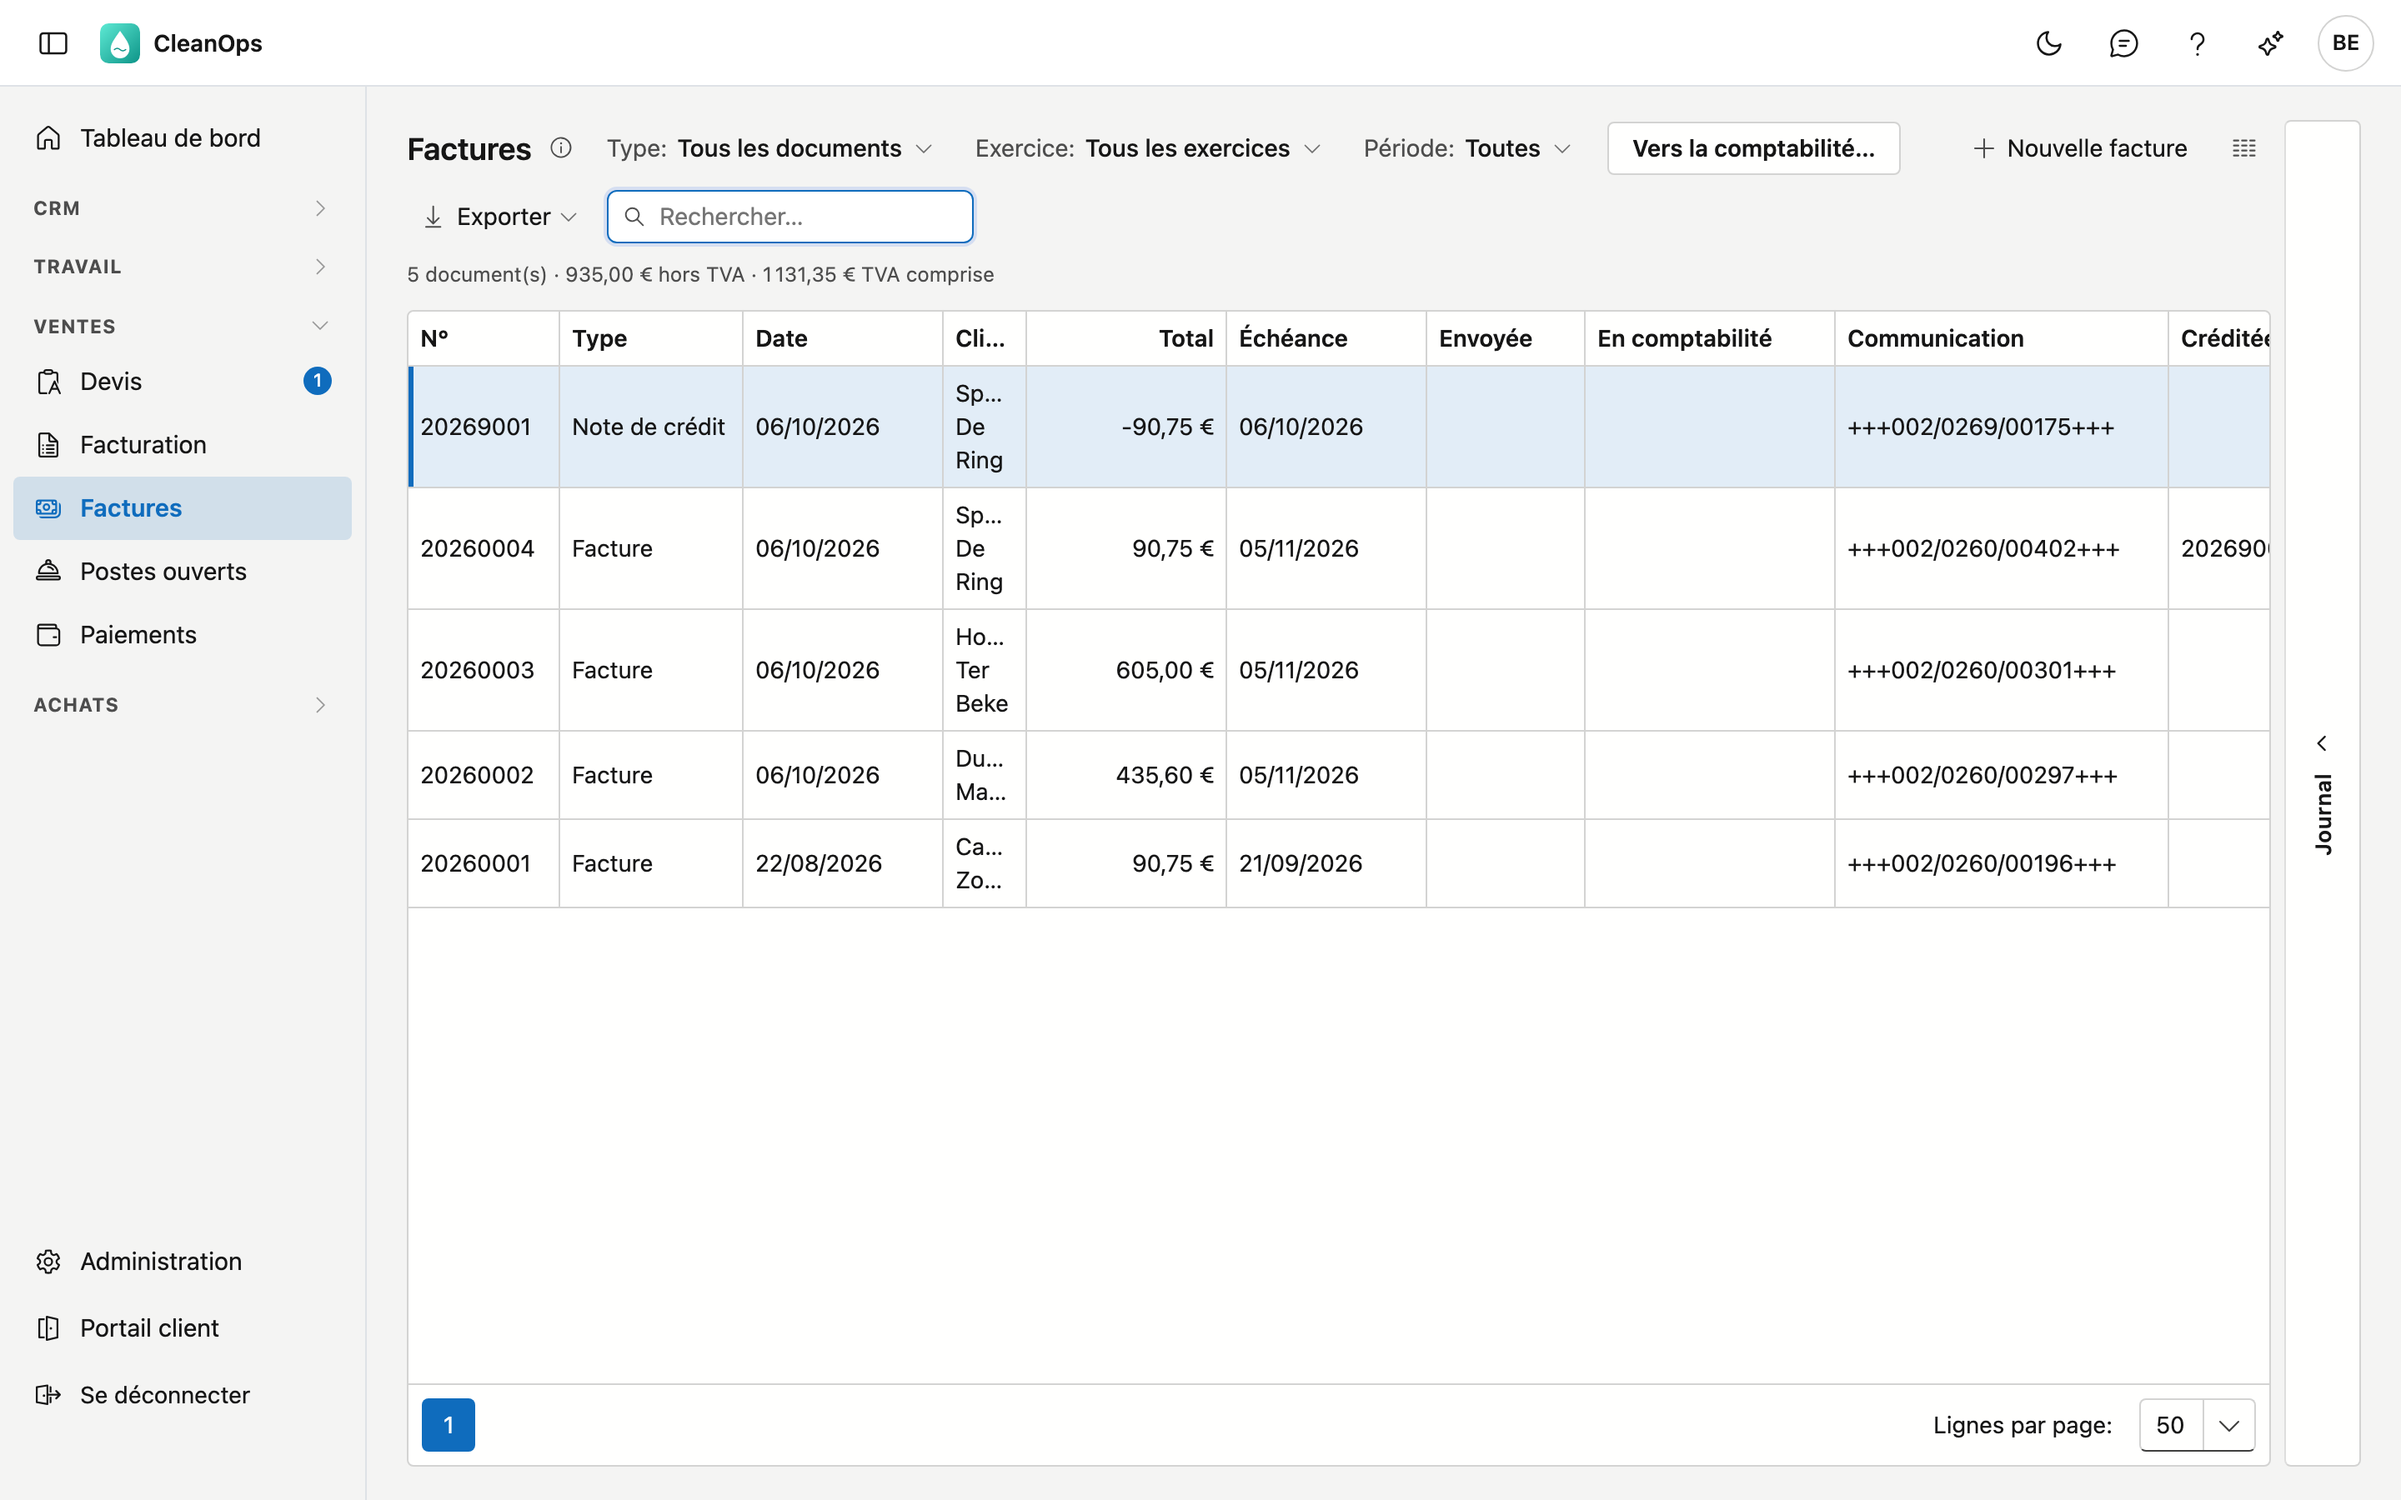
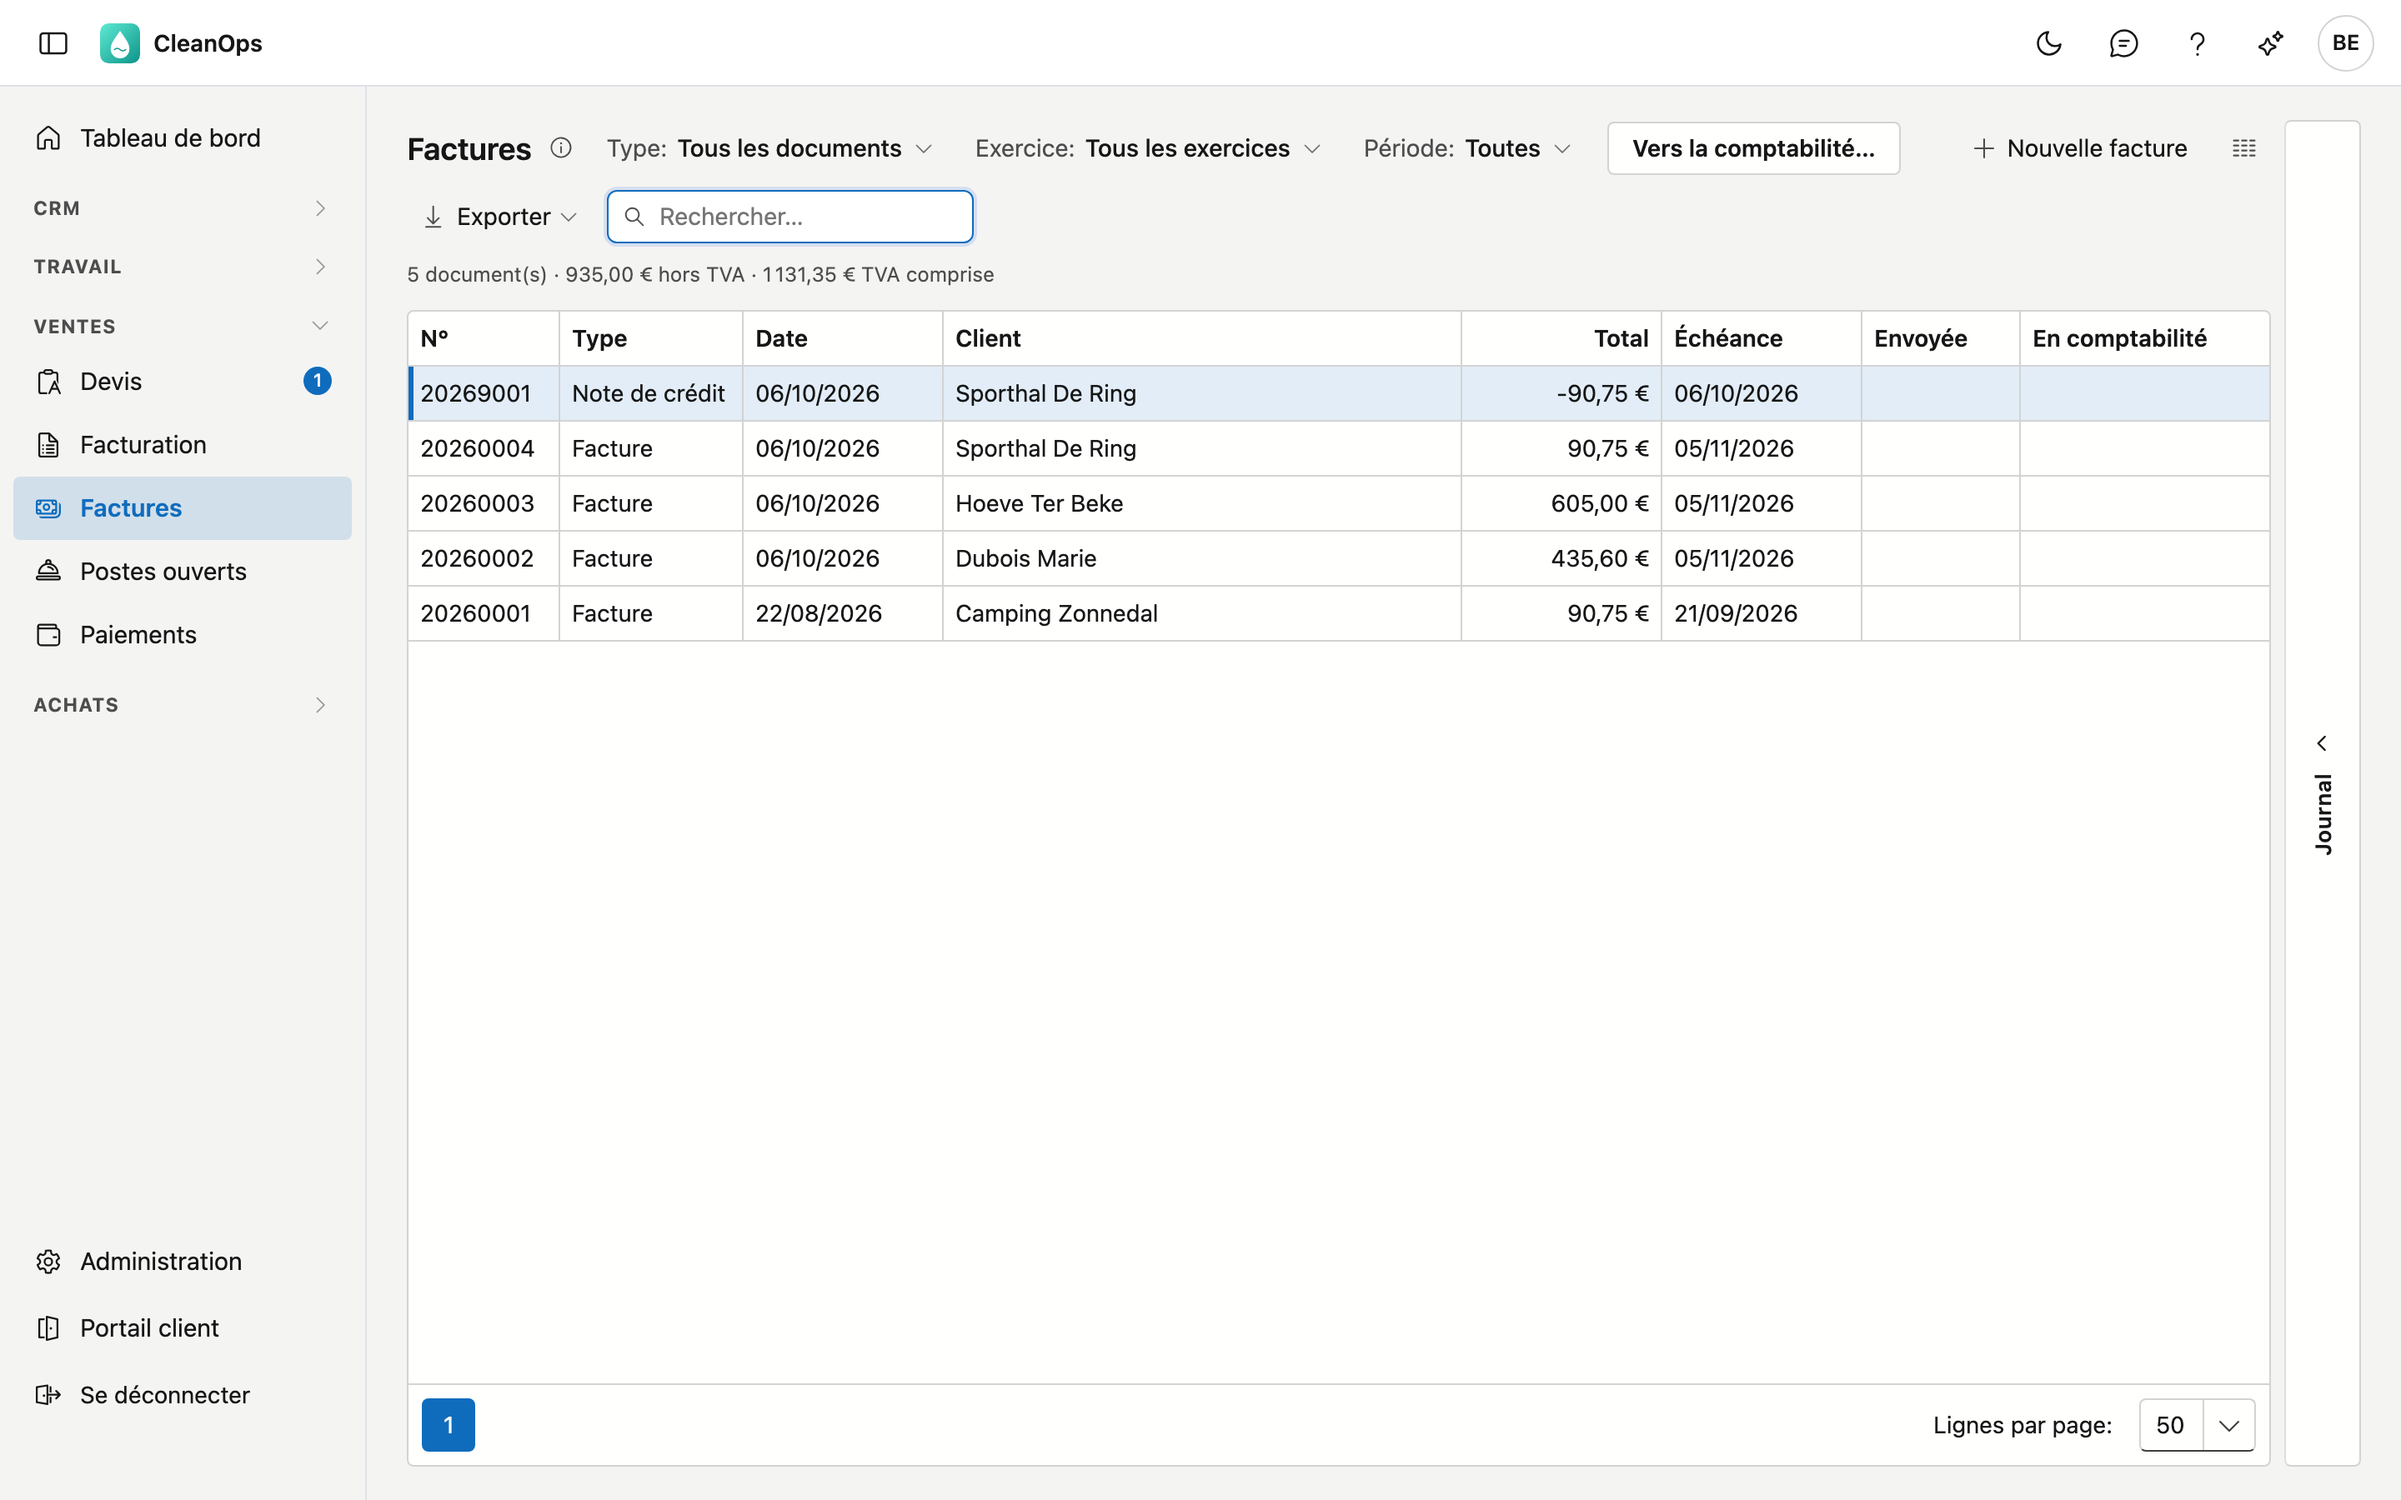
Facturen: Mededeling en Gecrediteerd door standaard verborgen (NL/FR), beelden opnieuw op 1440 px

diff --git a/docs/facturen.fr.md b/docs/facturen.fr.md
@@ -5,7 +5,7 @@ vous avez comptabilisées dans CleanOps. Ici, vous établissez une facture avec 
 modifiez une facture qui n'a pas encore été envoyée et vous la créditez. Les ordres de travail se facturent dans
 [Facturation](facturatie.fr.md).
 
-![La liste Factures de la démo avec des factures et une note de crédit, les filtres Type et Exercice, le bouton Nouvelle facture, le bouton Vers la comptabilité et les colonnes En comptabilité et Créditée par](images/facturen-lijst-fr.png "Factures")
+![La liste Factures de la démo avec des factures et une note de crédit, les filtres Type et Exercice, le bouton Nouvelle facture, le bouton Vers la comptabilité et les colonnes Envoyée et En comptabilité](images/facturen-lijst-fr.png "Factures")
 
 ## Ouvrir l'écran
 
@@ -24,6 +24,9 @@ seul l'administrateur l'a.
 | En comptabilité | *oui* si le document est déjà parti chez votre bureau comptable. |
 | Communication | La communication structurée. |
 | Créditée par | Le numéro de la note de crédit qui crédite cette facture. |
+
+Communication et Créditée par sont masquées par défaut, pour que la liste tienne aussi sur un écran plus petit : le sélecteur
+de colonnes les affiche.
 
 En haut, choisissez un **Type**, un **Exercice** ou une **Période**, ou cherchez par numéro, client ou communication.
 Sélectionnez un document et ouvrez à droite le volet **Journal** pour ses pièces jointes et son historique. Double-cliquez pour

diff --git a/docs/facturen.md b/docs/facturen.md
@@ -4,7 +4,7 @@ Facturen toont al uw verkoopdocumenten: de facturen en creditnota's uit uw vorig
 maakt u een factuur met vrije lijnen, drukt u een factuur af, wijzigt u een factuur die nog niet verstuurd is en crediteert u ze.
 Werkorders factureert u in [Facturatie](facturatie.md).
 
-![De lijst Facturen van de demo met facturen en een creditnota, de filters Type en Boekjaar, de knop Nieuwe factuur, de knop Naar de boekhouding en de kolommen In boekhouding en Gecrediteerd door](images/facturen-lijst.png "Facturen")
+![De lijst Facturen van de demo met facturen en een creditnota, de filters Type en Boekjaar, de knop Nieuwe factuur, de knop Naar de boekhouding en de kolommen Verstuurd en In boekhouding](images/facturen-lijst.png "Facturen")
 
 ## Het scherm openen
 
@@ -22,6 +22,9 @@ wijzigen en crediteren vraagt daarnaast het recht *Facturen opmaken*; dat heeft 
 | In boekhouding | *ja* als het document al naar uw boekhoudkantoor ging. |
 | Mededeling | De gestructureerde mededeling. |
 | Gecrediteerd door | Het nummer van de creditnota die deze factuur crediteert. |
+
+Mededeling en Gecrediteerd door staan standaard verborgen, zodat de lijst ook op een kleiner scherm past: met de kolomkiezer
+zet u ze erbij.
 
 Kies bovenaan een **Type**, een **Boekjaar** of een **Periode**, of zoek op nummer, klant of mededeling. Klik een document aan en
 open rechts de strook **Journaal** voor zijn bijlagen en logboek. Dubbelklik om het te openen.
